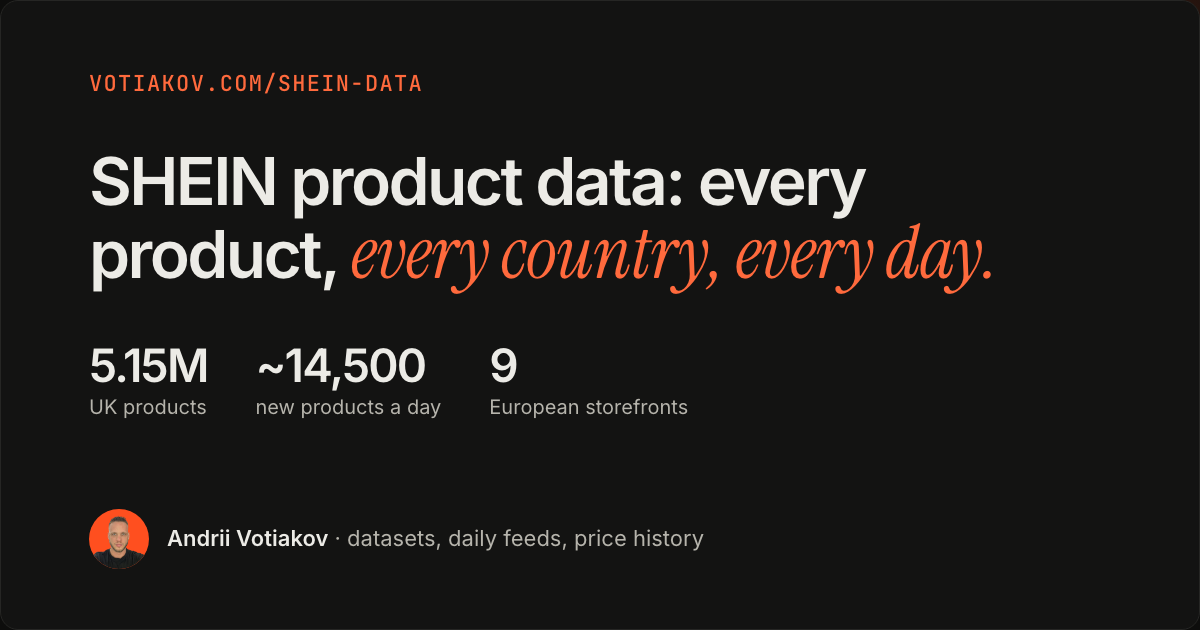
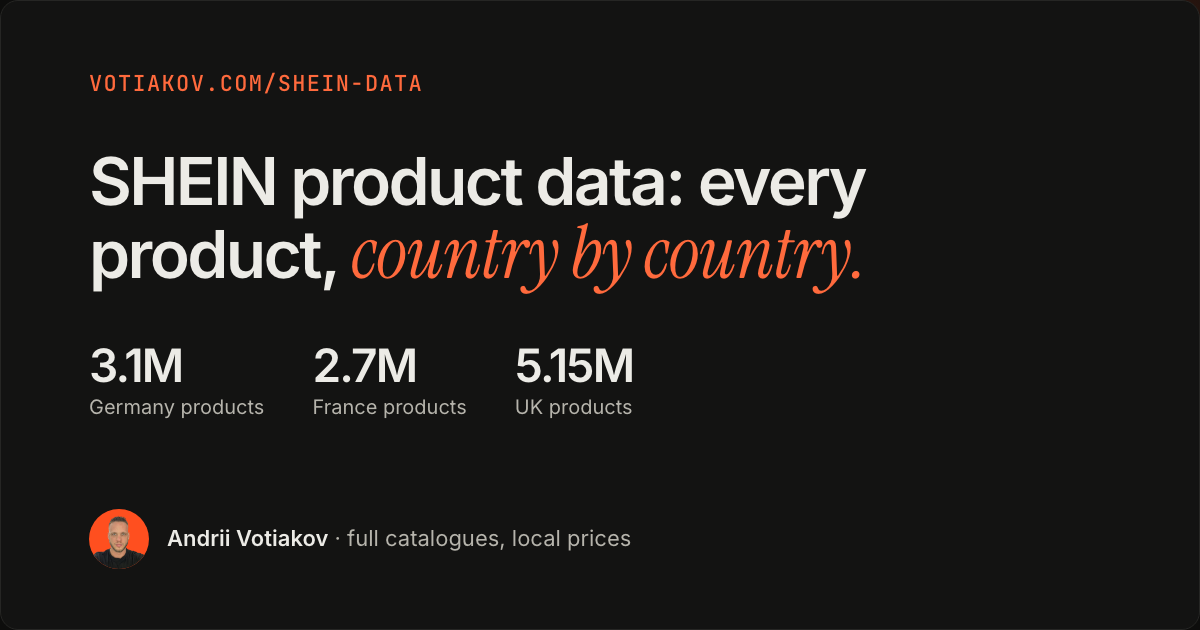
SHEIN data page: price per delivery, drop daily feeds and price history, lead with Germany and France

diff --git a/site/shein-data/index.html b/site/shein-data/index.html
@@ -3,8 +3,8 @@
 <head>
 <meta charset="utf-8">
 <meta name="viewport" content="width=device-width, initial-scale=1">
-<title>SHEIN product data: full catalogues, daily feeds and price history · Andrii Votiakov</title>
-<meta name="description" content="Full SHEIN product catalogues by country with real local prices: 5.15 million UK products, 6.6 million across 9 European storefronts. Datasets, daily feeds, price history and an API. Free report.">
+<title>SHEIN product data: full country catalogues with local prices · Andrii Votiakov</title>
+<meta name="description" content="Full SHEIN product catalogues by country with real local prices: 3.1 million products in Germany, 2.7 million in France, 5.15 million in the UK. $0.95 per 1,000 products per delivery. Free samples and report.">
 <link rel="canonical" href="https://votiakov.com/shein-data/">
 <meta name="theme-color" content="#f4f2ec" media="(prefers-color-scheme: light)">
 <meta name="theme-color" content="#0d0d0c" media="(prefers-color-scheme: dark)">
@@ -16,8 +16,8 @@
 <link rel="stylesheet" href="/assets/site.css">
 <meta property="og:type" content="website">
 <meta property="og:site_name" content="Andrii Votiakov">
-<meta property="og:title" content="SHEIN product data: every product, every country, every day">
-<meta property="og:description" content="Full SHEIN catalogues by country with local prices: 5.15 million UK products. Datasets, daily feeds, price history and a free report.">
+<meta property="og:title" content="SHEIN product data: every product, country by country">
+<meta property="og:description" content="Full SHEIN catalogues by country with local prices: Germany, France, the UK and more. Free 10,000-product samples and a free report.">
 <meta property="og:url" content="https://votiakov.com/shein-data/">
 <meta property="og:image" content="https://votiakov.com/shein-data/og.png">
 <meta property="og:image:width" content="1200">
@@ -37,10 +37,10 @@
     {
       "@type": "Dataset",
       "name": "SHEIN product catalogue data by country",
-      "description": "Every product SHEIN sells in a country, with the local selling price, crossed-out price, discount, currency, stock indicator, sold-out flag, rating, review count, colours, image URLs, category path, seller store code and creation date. The UK catalogue snapshot of 16 to 17 October 2026 holds 5,154,854 products. Product lists for 8 more European storefronts hold 6.6 million distinct products. Available as one-off snapshots, daily feeds with changes, and price history.",
+      "description": "Every product SHEIN sells in a country, with the local selling price, crossed-out price, discount, currency, stock indicator, sold-out flag, rating, review count, colours, image URLs, category path, seller store code and creation date. The Germany and France snapshots of 10 November 2026 hold 3,123,472 and 2,724,075 products, and the UK snapshot of 16 to 17 October 2026 held 5,154,854. Each delivery is a full new collection; a repeat delivery comes with a file of what changed.",
       "url": "https://votiakov.com/shein-data/",
       "creator": { "@id": "https://votiakov.com/#person" },
-      "keywords": ["SHEIN data", "SHEIN dataset", "SHEIN product data", "SHEIN prices", "SHEIN price history", "fast fashion data", "e-commerce product data"],
+      "keywords": ["SHEIN data", "SHEIN dataset", "SHEIN product data", "SHEIN prices", "fast fashion data", "e-commerce product data"],
       "isAccessibleForFree": false,
       "temporalCoverage": "2026-10-16/..",
       "spatialCoverage": ["United Kingdom", "Germany", "France", "Spain", "Italy", "Netherlands", "Poland", "United States"],
@@ -94,7 +94,7 @@
     {
       "@type": "FAQPage",
       "mainEntity": [
-        { "@type": "Question", "name": "Which SHEIN countries do you cover?", "acceptedAnswer": { "@type": "Answer", "text": "The UK catalogue is complete: 5.15 million products. For Germany, France, Spain, Italy, the Netherlands, Poland and two EU-wide storefronts I hold the full product lists, 6.6 million distinct products, and collect the details on request. For the US and other regions, ask." } },
+        { "@type": "Question", "name": "Which SHEIN countries do you cover?", "acceptedAnswer": { "@type": "Answer", "text": "Germany and France were collected in full on 10 November 2026: 3.1 million and 2.7 million products. The UK catalogue was 5.15 million products in October 2026. Other storefronts, such as Spain, Italy, the Netherlands, Poland and the US, are collected on request." } },
         { "@type": "Question", "name": "How complete is the data?", "acceptedAnswer": { "@type": "Answer", "text": "Coverage is measured for every country. For the UK on 17 October 2026 I collected 98.5% of all products SHEIN listed; the other 1.5% were sold out or off sale at that moment." } },
         { "@type": "Question", "name": "Can I get a free sample?", "acceptedAnswer": { "@type": "Answer", "text": "Yes. Download 10,000 random UK products with every field, in CSV and Parquet, from votiakov.com/samples/shein-uk-sample-10k-2026-10.zip. Germany and France samples (10,000 products each, November 2026) are at votiakov.com/samples/shein-de-sample-10k-2026-11.zip and votiakov.com/samples/shein-fr-sample-10k-2026-11.zip. For a sample from another country, write to me." } },
         { "@type": "Question", "name": "Is this affiliated with SHEIN?", "acceptedAnswer": { "@type": "Answer", "text": "No. This is independent data collection and analysis. SHEIN is a trademark of its owner." } }
@@ -126,17 +126,18 @@
 <section class="page-hero">
   <div class="wrap">
     <p class="crumb"><a href="/">votiakov.com</a> / SHEIN data</p>
-    <h1>Every SHEIN product, <span class="serif">every country, every day.</span></h1>
-    <p class="lede">I collect SHEIN's full product catalogue per country, with the real local price, discount, stock and reviews of every product. For the UK that is 5.15 million products. I sell it as datasets, daily feeds, price history and an API.</p>
+    <h1>Every SHEIN product, <span class="serif">country by country.</span></h1>
+    <p class="lede">I collect SHEIN's full product catalogue per country, with the real local price, discount, stock and reviews of every product. For Germany that is 3.1 million products, for France 2.7 million. I sell it as datasets, one full delivery at a time, and through an API.</p>
     <div class="btns">
       <a class="btn primary" href="/samples/shein-uk-sample-10k-2026-10.zip">Download a free sample <span class="arr" aria-hidden="true">↓</span></a>
       <a class="btn" href="/reports/shein-by-the-numbers-uk-2026-10.pdf">Free report (PDF) <span class="arr" aria-hidden="true">↓</span></a>
     </div>
     <ul class="facts">
+      <li>Germany · 3.1M products</li>
+      <li>France · 2.7M products</li>
       <li>UK · 5.15M products</li>
-      <li>9 European storefronts · 6.6M products</li>
       <li>Local prices and currencies</li>
-      <li>Refreshed daily</li>
+      <li>Every row dated</li>
       <li>CSV · Parquet · JSON · API</li>
     </ul>
     <p class="muted">Free sample: 10,000 random UK products with every field, CSV and Parquet, 7 MB zip. Also for <a href="/samples/shein-de-sample-10k-2026-11.zip">Germany</a> and <a href="/samples/shein-fr-sample-10k-2026-11.zip">France</a> (November 2026).</p>
@@ -164,23 +165,23 @@
   <div class="wrap">
     <div class="sec-head">
       <h2 id="offer-h">What you <span class="serif">can get</span></h2>
-      <p>One-off snapshots, daily feeds or live lookups. You choose the countries, the fields and the format.</p>
+      <p>A full catalogue, a part of it, or live lookups. You choose the countries, the categories and the format.</p>
     </div>
     <div class="offer">
       <div class="card">
         <h3>Full country catalogue</h3>
-        <p class="when">One-off snapshot</p>
-        <p>Every product SHEIN sells in a country on one date. For the UK that is 5.15 million rows. Any SHEIN storefront.</p>
+        <p class="when">$0.95 per 1,000 products</p>
+        <p>Every product SHEIN sells in a country, collected new for your order. For Germany that is 3.1 million rows. One row is one product colour; sizes are not separate rows.</p>
       </div>
       <div class="card">
-        <h3>Daily feed</h3>
-        <p class="when">Subscription</p>
-        <p>The full catalogue every day, plus what changed: new products, removed products, and changes in price, discount and stock.</p>
+        <h3>Category pack</h3>
+        <p class="when">Same rate · $750 minimum</p>
+        <p>Only the part of the catalogue you need, such as women's apparel or home. Same fields and formats, priced by the number of products.</p>
       </div>
       <div class="card">
-        <h3>Price history</h3>
-        <p class="when">Archive</p>
-        <p>Day-by-day prices, kept exactly as collected. Check discount claims against the real 30-day price, track markdowns, or measure what new import duties do to prices.</p>
+        <h3>Repeat delivery</h3>
+        <p class="when">20% less</p>
+        <p>The same data again later, for example every month. A full new collection, not a top-up, with a file listing new, removed and repriced products. No contract and no prepayment.</p>
       </div>
       <div class="card">
         <h3>API and live lookups</h3>
@@ -193,7 +194,7 @@
       <ul class="facts">
         <li>product ID</li><li>SKU</li><li>title</li><li>category path</li><li>selling price</li><li>crossed-out price</li><li>discount</li><li>currency</li><li>stock</li><li>sold-out flag</li><li>rating</li><li>review count</li><li>colours</li><li>image URLs</li><li>seller store</li><li>creation date</li>
       </ul>
-      <p class="muted">Delivered as CSV, Parquet or JSON: a download, or straight into S3, Google Cloud Storage or Snowflake.</p>
+      <p class="muted">Delivered as CSV, Parquet or JSON, by download link or into your own S3 or Google Cloud Storage bucket.</p>
     </div>
   </div>
 </section>
@@ -207,7 +208,7 @@
     <div class="offer">
       <div class="card"><h3>Brands and retailers</h3><p>Price ladders by category, new arrivals and markdown depth, for range and pricing decisions.</p></div>
       <div class="card"><h3>Market intelligence companies</h3><p>A complete SHEIN layer for your product, without building and maintaining a crawler for a hard site. Resale licences available.</p></div>
-      <div class="card"><h3>Investors and analysts</h3><p>SHEIN listed in Hong Kong in September 2026. Daily prices, assortment and discount depth by country, as a dataset or as daily metrics.</p></div>
+      <div class="card"><h3>Investors and analysts</h3><p>SHEIN listed in Hong Kong in September 2026. Prices, assortment and discount depth by country, from one snapshot or from repeat deliveries.</p></div>
       <div class="card"><h3>Researchers and journalists</h3><p>Test discount claims, measure how fast the catalogue grows, and compare prices across countries.</p></div>
     </div>
   </div>
@@ -246,11 +247,12 @@
       <p>If yours is not here, write to me.</p>
     </div>
     <div class="faq">
-      <details><summary>Which SHEIN countries do you cover?</summary><p>The UK catalogue is complete: 5.15 million products. For Germany, France, Spain, Italy, the Netherlands, Poland and two EU-wide storefronts I hold the full product lists, 6.6 million distinct products, and collect the details on request. For the US and other regions, ask.</p></details>
+      <details><summary>Which SHEIN countries do you cover?</summary><p>Germany and France were collected in full on 10 November 2026: 3.1 million and 2.7 million products. The UK catalogue was 5.15 million products in October 2026. Other storefronts, such as Spain, Italy, the Netherlands, Poland and the US, are collected on request.</p></details>
       <details><summary>How complete is the data?</summary><p>Coverage is measured for every country. For the UK on 17 October 2026 I collected 98.5% of all products SHEIN listed; the other 1.5% were sold out or off sale at that moment.</p></details>
-      <details><summary>How fresh is it?</summary><p>Snapshots are dated. Feeds are collected every day, and the price history keeps each day exactly as it was collected.</p></details>
+      <details><summary>How fresh is it?</summary><p>Each delivery is a full new collection made for your order, and every row carries the time it was collected. I do not sell older records as new.</p></details>
       <details><summary>Can I get a free sample?</summary><p>Yes. <a href="/samples/shein-uk-sample-10k-2026-10.zip">Download 10,000 random UK products</a> with every field, in CSV and Parquet (7 MB zip), or get it on <a href="https://github.com/votiakov/shein-dataset" rel="noopener">GitHub</a>, <a href="https://huggingface.co/datasets/votiakov/shein-uk-products-sample" rel="noopener">Hugging Face</a> or <a href="https://www.kaggle.com/datasets/votiakov/shein-uk-products-sample" rel="noopener">Kaggle</a>. There are also 10,000-product samples for <a href="/samples/shein-de-sample-10k-2026-11.zip">Germany</a> and <a href="/samples/shein-fr-sample-10k-2026-11.zip">France</a>, collected in November 2026. For a sample from another country, write to me.</p></details>
-      <details><summary>What does it cost?</summary><p>It depends on the countries, how often you need it and the licence. Snapshots are a one-off price and feeds are monthly. Write to me for a quote.</p></details>
+      <details><summary>What does it cost?</summary><p>$0.95 per 1,000 products per delivery, with a $750 minimum. Each repeat delivery of the same data costs 20% less. The full Germany catalogue is about $2,970. Every delivery is invoiced on its own once it is ready, with no contract, no prepayment and no minimum term.</p></details>
+      <details><summary>Can you guarantee future deliveries?</summary><p>No. Collection depends on SHEIN's site staying accessible, and that is not in my hands. This is why there are no subscriptions: you pay only for a delivery you have received.</p></details>
       <details><summary>Is this affiliated with SHEIN?</summary><p>No. This is independent data collection and analysis. SHEIN is a trademark of its owner.</p></details>
     </div>
   </div>
@@ -261,7 +263,7 @@
     <div class="contact">
       <h2 id="contact-h">Need SHEIN data? <span class="serif">Tell me what for.</span></h2>
       <div class="ways">
-        <div class="way"><span class="k">Datasets and feeds</span><h3>Full catalogues, daily feeds, price history</h3><p>Any SHEIN storefront, in your format. A free 10,000-product sample first.</p></div>
+        <div class="way"><span class="k">Datasets</span><h3>Full catalogues, category packs, repeat deliveries</h3><p>Any SHEIN storefront, in your format. A free 10,000-product sample first.</p></div>
         <div class="way"><span class="k">Live lookups</span><h3>API, MCP server and Apify scraper</h3><p>Single products or categories on demand, paid per product.</p></div>
       </div>
       <div class="mail">

diff --git a/site/index.html b/site/index.html
@@ -171,9 +171,9 @@
     </div>
     <a class="feature" href="/shein-data/">
       <div>
-        <span class="k">Datasets · daily feeds · price history</span>
-        <h3>SHEIN product data, every country, every day</h3>
-        <p>Full SHEIN catalogues by country with real local prices: 5.15 million UK products, 6.6 million across 9 European storefronts. Plus a free report on what the data shows.</p>
+        <span class="k">Datasets · category packs · API</span>
+        <h3>SHEIN product data, country by country</h3>
+        <p>Full SHEIN catalogues by country with real local prices: 3.1 million products in Germany, 2.7 million in France, 5.15 million in the UK. Plus a free report on what the data shows.</p>
       </div>
       <span class="go">SHEIN data →</span>
     </a>
@@ -281,7 +281,7 @@
       <p class="when">Updated October 2026 · Łódź, Poland</p>
       <ul class="now">
         <li><span><b>Building Cartpie</b>, a product data API and MCP server.</span></li>
-        <li><span><b>Selling <a href="/shein-data/">SHEIN data</a></b>: full catalogues by country, daily feeds and price history.</span></li>
+        <li><span><b>Selling <a href="/shein-data/">SHEIN data</a></b>: full catalogues by country, with local prices.</span></li>
         <li><span><b>Co-founding Fabla</b>, AI content planning for small brands, in closed beta.</span></li>
         <li><span><b>Fractional CTO</b> for small companies in e-commerce, property and logistics, mieszkanko among them.</span></li>
         <li><span><b>Cutting cloud bills</b> through reducecost.cloud, paid from the savings.</span></li>

diff --git a/tools/og-shein.html b/tools/og-shein.html
@@ -24,13 +24,13 @@
 <div class="glow"></div>
 <div class="card">
   <div class="k">votiakov.com/shein-data</div>
-  <h1>SHEIN product data: every product, <em>every country, every day.</em></h1>
+  <h1>SHEIN product data: every product, <em>country by country.</em></h1>
   <div class="stats">
+    <div><b>3.1M</b><span>Germany products</span></div>
+    <div><b>2.7M</b><span>France products</span></div>
     <div><b>5.15M</b><span>UK products</span></div>
-    <div><b>~14,500</b><span>new products a day</span></div>
-    <div><b>9</b><span>European storefronts</span></div>
   </div>
-  <div class="who"><img src="/assets/portrait.webp" alt=""><div><b>Andrii Votiakov</b> · datasets, daily feeds, price history</div></div>
+  <div class="who"><img src="/assets/portrait.webp" alt=""><div><b>Andrii Votiakov</b> · full catalogues, local prices</div></div>
 </div>
 </body>
 </html>

diff --git a/README.md b/README.md
@@ -3,7 +3,7 @@
 Personal site of Andrii Votiakov. Static HTML and one CSS file, no build step, no trackers.
 
 - `site/index.html`: the home page. Hero with an animated Cartpie demo, six numbers, products (Cartpie, Fabla, mieszkanko, reducecost.cloud, a SHEIN data strip, Apify), three company stories with outcome visuals, how I work, now, writing, contact, background.
-- `site/shein-data/index.html`: the SHEIN data page (datasets, daily feeds, price history, API), with Dataset, Report and FAQ structured data and its own social card `og.png`. Its numbers come from the report; update both together.
+- `site/shein-data/index.html`: the SHEIN data page (datasets priced per delivery, API), with Dataset, Report and FAQ structured data and its own social card `og.png`. Its numbers come from the report; update both together.
 - `site/reports/`: downloadable reports, such as `shein-by-the-numbers-uk-2026-10.pdf`.
 - `site/assets/site.css`: the design system (light and dark, self-hosted Inter, Instrument Serif and JetBrains Mono).
 - `site/assets/products/`: product screenshots (1200×750 WebP). Re-take them when a product site changes.
